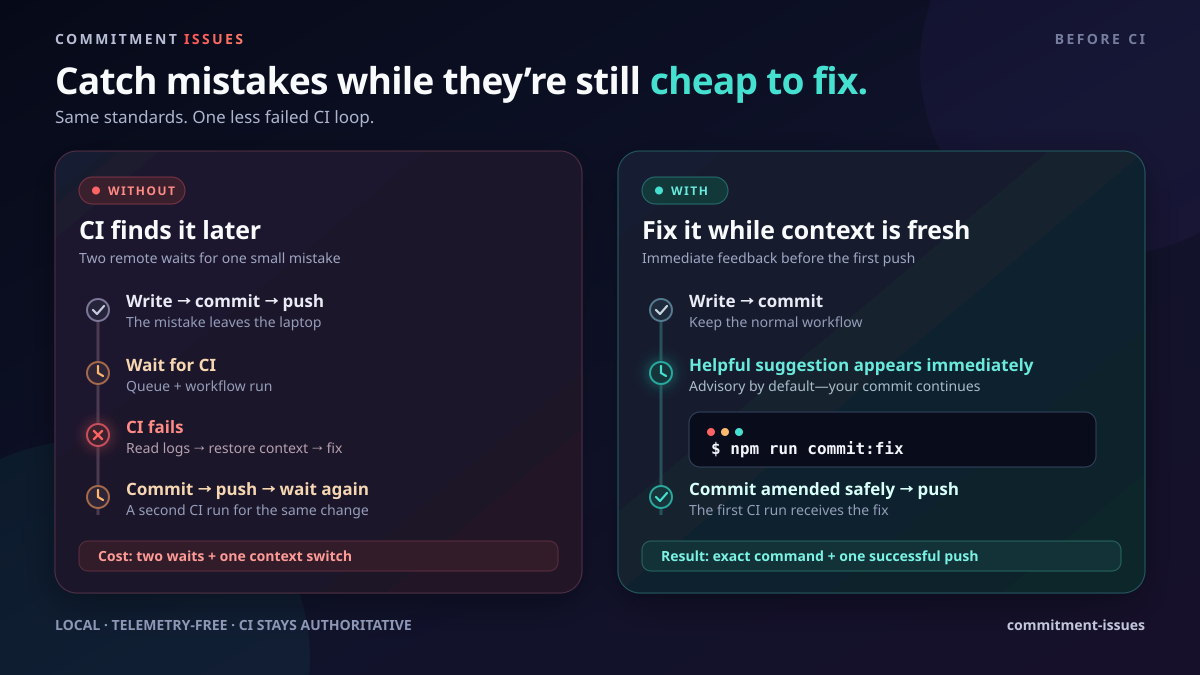
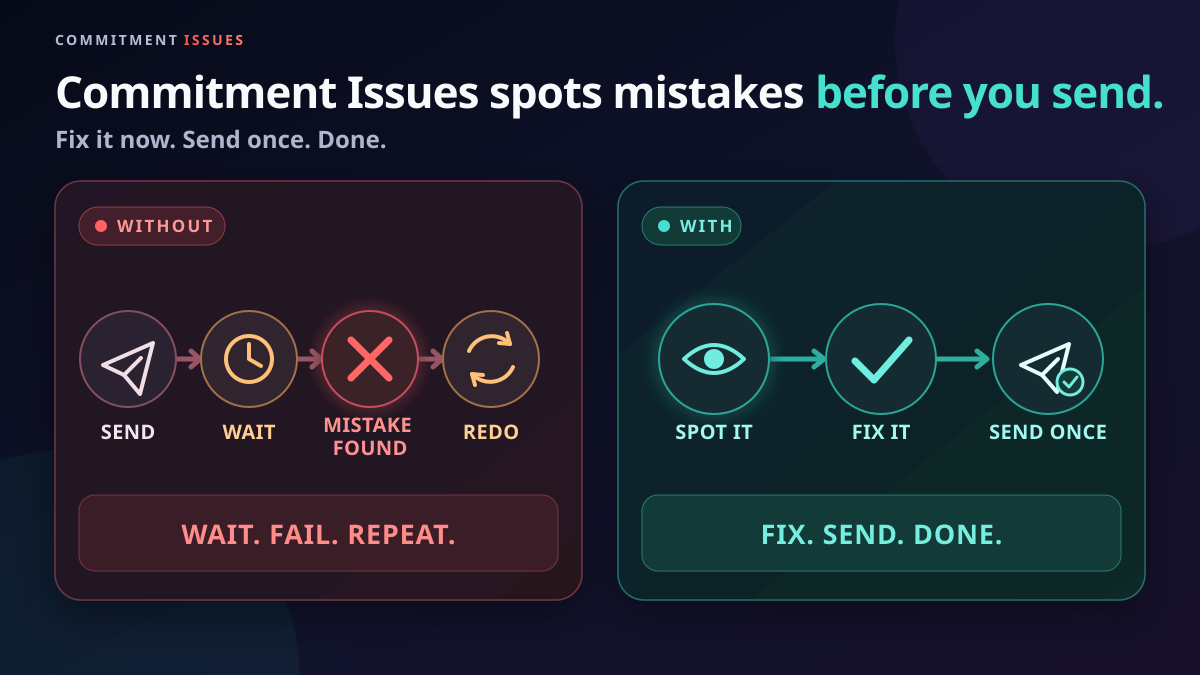
docs: simplify before-after graphic

diff --git a/docs/maintainer-operations.md b/docs/maintainer-operations.md
@@ -102,13 +102,17 @@ ffmpeg -nostdin -hide_banner -loglevel error \
   -frames:v 1 -y assets/before-after.png
 ```
 
-The PNG must remain 1200×675. Review both files at full size and at a reduced
-social-feed size: the without/with paths, exact `npm run commit:fix` command,
-and “Catch mistakes while they're still cheap to fix” promise must remain
-legible. The `Render demo` workflow regenerates the PNG, uploads the rendered
-artifact for inspection, and requires it to byte-match the committed export.
-`test/visual-assets.test.mjs` checks that workflow contract plus the dimensions,
-story, cross-surface references, and demo's absolute 20–30 second duration.
+The PNG must remain 1200×675. Review both files at full size, 600 pixels wide,
+and a mobile-width preview. Within two seconds, a viewer without software
+experience should be able to read the picture as “send, wait, find a mistake,
+and redo” versus “spot it, fix it, and send once.” Keep visible copy to at most
+35 words and out of software jargon; the accessible title retains the
+canonical “Catch mistakes while they're still cheap to fix” promise. The
+`Render demo` workflow regenerates the PNG, uploads the rendered artifact for
+inspection, and requires it to byte-match the committed export.
+`test/visual-assets.test.mjs` checks that workflow contract plus the
+dimensions, plain-language story, cross-surface references, and demo's
+absolute 20–30 second duration.
 
 ## npm package contents
 

diff --git a/promo/launch.md b/promo/launch.md
@@ -38,15 +38,14 @@ with the canonical promise above. For a shorter X post, use:
 
 | Asset                          | Best use                               | Notes                                                                 |
 | ------------------------------ | -------------------------------------- | --------------------------------------------------------------------- |
-| `assets/before-after.svg`      | GitHub/npm and linked HN documentation | Crisp, accessible source with the complete before/after story         |
-| `assets/before-after.png`      | Product Hunt, LinkedIn, Reddit, and X  | 1200×675 upload-ready export; keep the full frame and readable labels |
+| `assets/before-after.svg`      | GitHub/npm and linked HN documentation | Crisp, accessible source with a jargon-free before/after story        |
+| `assets/before-after.png`      | Product Hunt, LinkedIn, Reddit, and X  | 1200×675 upload-ready export; understandable without software context |
 | `assets/demo.gif`              | README/npm and posts that accept GIFs  | 26-second real workflow: advisory warning, exact fix, successful push |
 | `assets/commitment-issues.png` | Brand-led posts and social preview     | Existing 16:9 wordmark and Commit Owl artwork                         |
 
-Recommended alt text for the comparison asset: “Without Commitment Issues, a
-developer pushes a mistake, waits for failed CI, fixes it, commits again,
-pushes, and waits again. With Commitment Issues, an immediate local suggestion
-gives the exact `npm run commit:fix` command before the first successful push.”
+Recommended alt text for the comparison asset: “Without Commitment Issues: send
+work, wait, find a mistake, and do it again. With Commitment Issues: spot and
+fix the mistake first, then send once.”
 
 ---
 

diff --git a/README.md b/README.md
@@ -18,10 +18,10 @@ Commit normally. When a fixable problem appears, Commitment Issues gives you an
 immediate suggestion and the exact safe command to fix it before the first
 push. CI stays authoritative.
 
-## One small mistake. Two feedback loops.
+## One small mistake. Two very different outcomes.
 
 <p align="center">
-  <img src="https://raw.githubusercontent.com/RoryGlenn/commitment-issues/main/assets/before-after.svg" alt="Before and after workflow: without Commitment Issues, a developer pushes a mistake, waits for failed CI, fixes it, commits again, pushes, and waits again; with Commitment Issues, an immediate local suggestion gives the exact npm run commit:fix command before the first successful push" width="900" />
+  <img src="https://raw.githubusercontent.com/RoryGlenn/commitment-issues/main/assets/before-after.svg" alt="Without Commitment Issues: send work, wait, find a mistake, and do it again. With Commitment Issues: spot and fix the mistake first, then send once." width="900" />
 </p>
 
 **Without:** commit → push → wait → CI fails → read logs → fix → commit again →

diff --git a/CHANGELOG.md b/CHANGELOG.md
@@ -16,6 +16,8 @@ and this project adheres to [Semantic Versioning](https://semver.org/spec/v2.0.0
 
 ### Changed
 
+- Simplified the before/after graphic into a picture-first, jargon-free story:
+  send, wait, find a mistake, and redo versus spot it, fix it, and send once.
 - Redesigned CLI help around described setup, check, and fix actions, with the
   installed version, examples, safe command-specific help, and a separate
   integration section for `commit-msg`, normally invoked automatically by Git.

diff --git a/docs/why-before-ci.md b/docs/why-before-ci.md
@@ -13,7 +13,7 @@ and intent in mind.
 The result is not fewer standards. It is a shorter and less disruptive path to
 meeting the same standards.
 
-![Before and after workflow comparing a failed CI feedback loop with an immediate local suggestion and exact fix command](https://raw.githubusercontent.com/RoryGlenn/commitment-issues/main/assets/before-after.svg)
+![Without Commitment Issues: send work, wait, find a mistake, and do it again. With Commitment Issues: spot and fix the mistake first, then send once.](https://raw.githubusercontent.com/RoryGlenn/commitment-issues/main/assets/before-after.svg)
 
 ## One mistake, two timelines
 